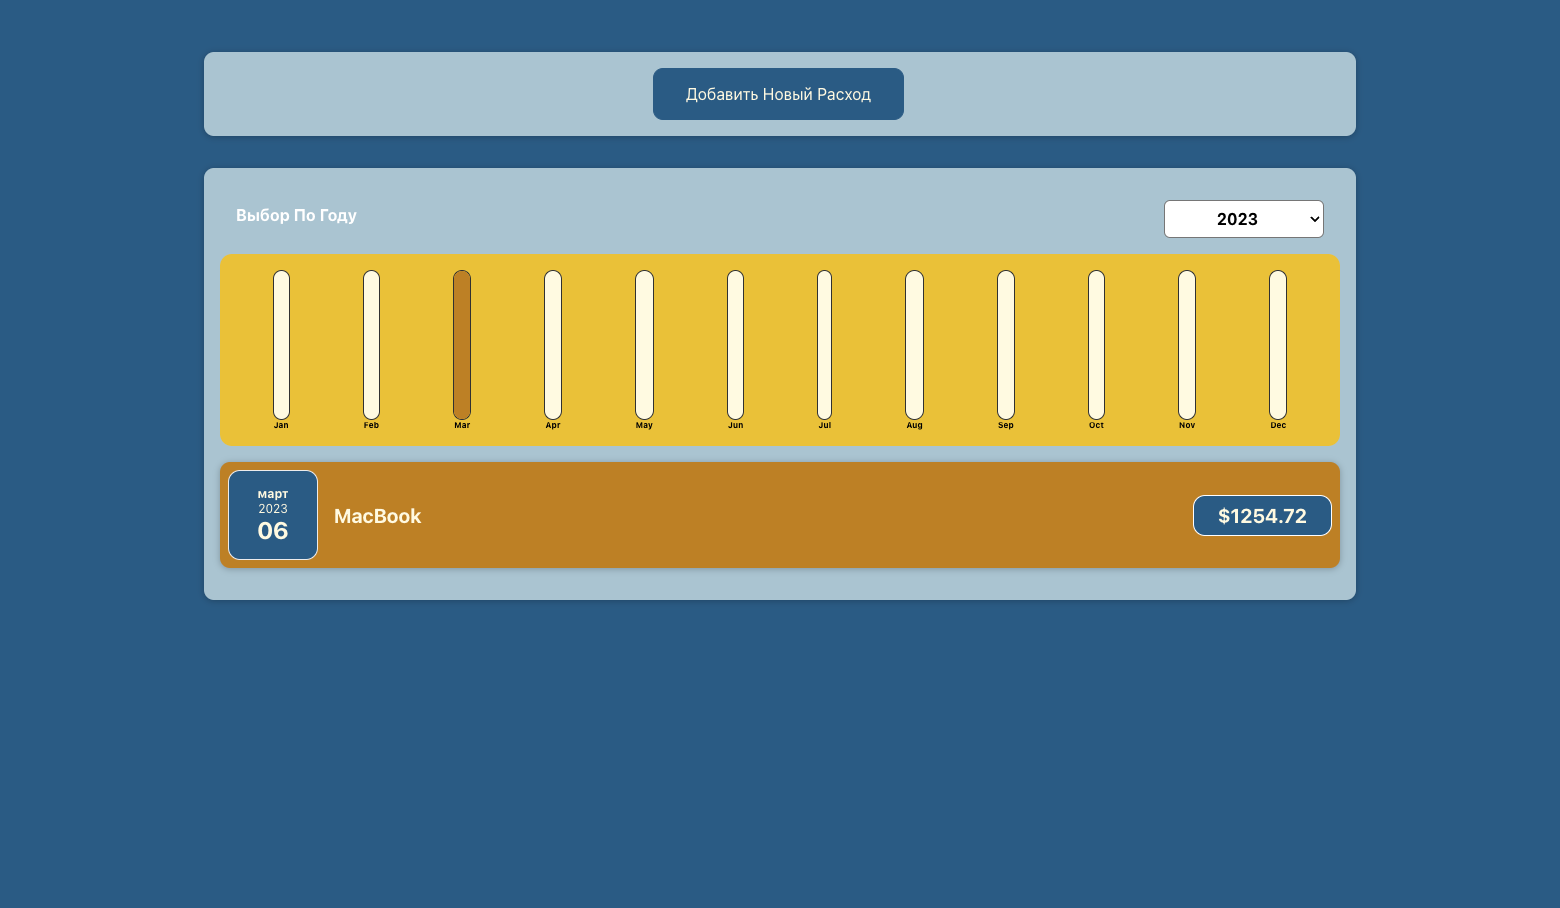
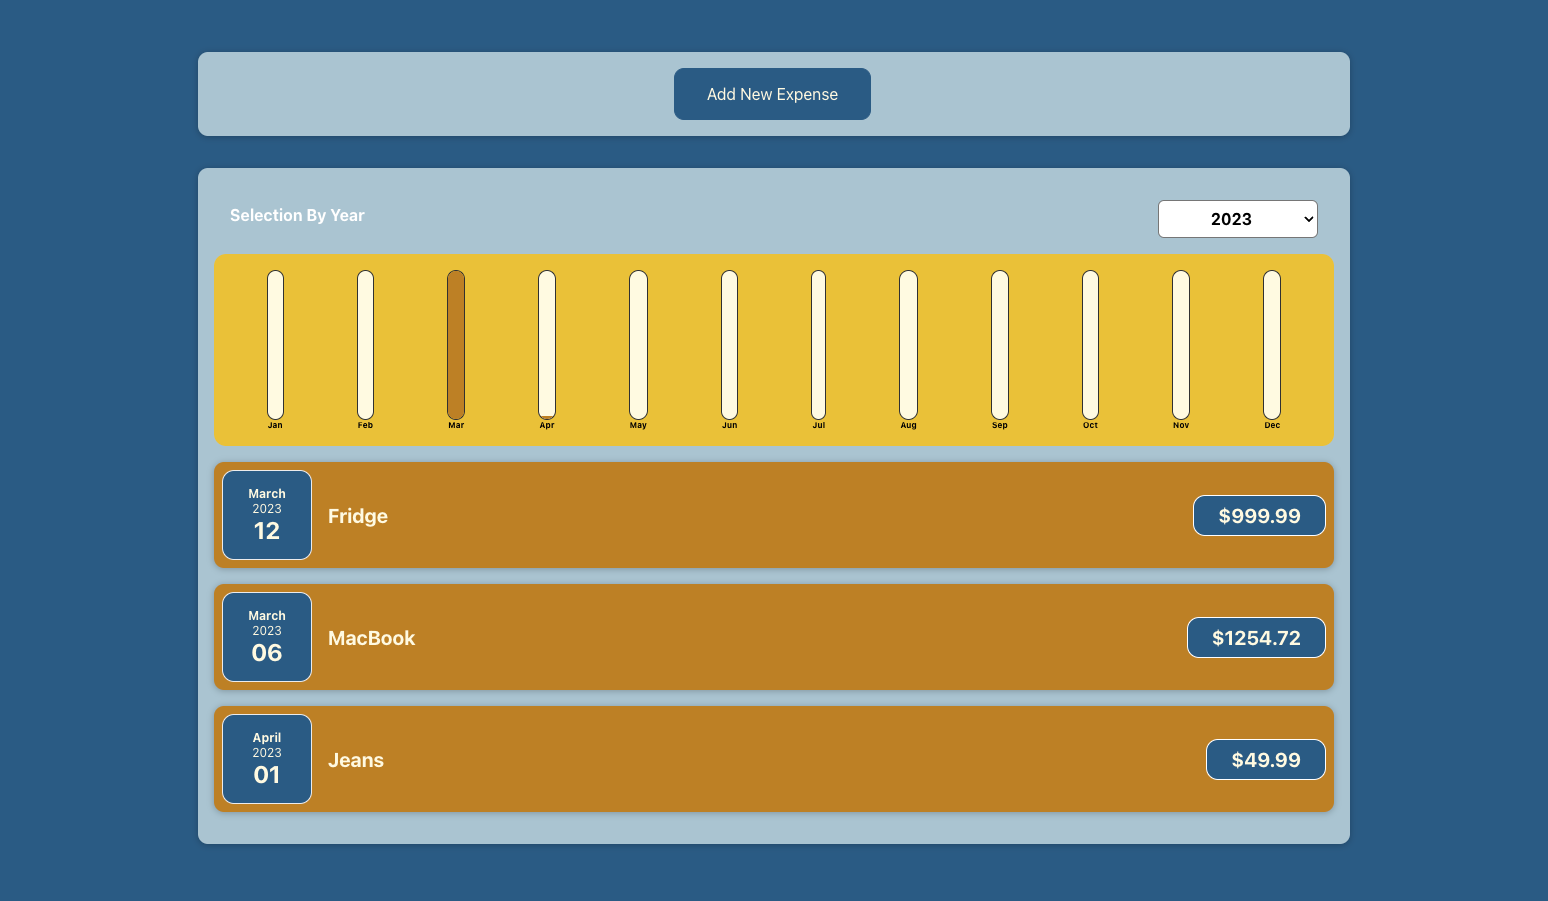
Feat(Files) Added local storage

diff --git a/src/components/NewCost/CostForm.js b/src/components/NewCost/CostForm.js
@@ -1,48 +1,24 @@
-import React, { useState } from "react";
-import "./CostForm.css";
+import React, { useState } from 'react';
+import './CostForm.css';
 
-const CostForm = (props) => {
-  const [inputName, setInputName] = useState("");
-  const [inputAmount, setInputAmount] = useState("");
-  const [inputDate, setInputDate] = useState("");
+const CostForm = props => {
+  const [inputName, setInputName] = useState('');
+  const [inputAmount, setInputAmount] = useState('');
+  const [inputDate, setInputDate] = useState('');
 
-  //   const [userInput, setUserInput] = useState({
-  //     name: "",
-  //     amount: "",
-  //     date: "",
-  //   });
-
-  const nameChangeHandler = (event) => {
+  const nameChangeHandler = event => {
     setInputName(event.target.value);
-    // setUserInput({
-    //   ...userInput,
-    //   name: event.target.value,
-    // });
-    // setUserInput((previousState) => {
-    //     return {
-    //         ...previousState,
-    //         name: event.target.value
-    //     }
-    // })
   };
 
-  const amountChangeHandler = (event) => {
+  const amountChangeHandler = event => {
     setInputAmount(event.target.value);
-    // setUserInput({
-    //   ...userInput,
-    //   amount: event.target.value,
-    // });
   };
 
-  const dateChangeHandler = (event) => {
+  const dateChangeHandler = event => {
     setInputDate(event.target.value);
-    // setUserInput({
-    //   ...userInput,
-    //   date: event.target.value,
-    // });
   };
 
-  const submitHandler = (event) => {
+  const submitHandler = event => {
     event.preventDefault();
 
     const costData = {
@@ -52,20 +28,20 @@ const CostForm = (props) => {
     };
 
     props.onSaveCostData(costData);
-    setInputName("");
-    setInputAmount("");
-    setInputDate("");
+    setInputName('');
+    setInputAmount('');
+    setInputDate('');
   };
 
   return (
     <form onSubmit={submitHandler}>
       <div className="new-cost__controls">
         <div className="new-cost__control">
-          <label>Название</label>
+          <label>Name</label>
           <input type="text" value={inputName} onChange={nameChangeHandler} />
         </div>
         <div className="new-cost__control">
-          <label>Сумма</label>
+          <label>Sum</label>
           <input
             value={inputAmount}
             onChange={amountChangeHandler}
@@ -75,7 +51,7 @@ const CostForm = (props) => {
           />
         </div>
         <div className="new-cost__control">
-          <label>Дата</label>
+          <label>Date</label>
           <input
             value={inputDate}
             onChange={dateChangeHandler}
@@ -85,9 +61,9 @@ const CostForm = (props) => {
           />
         </div>
         <div className="new-cost__actions">
-          <button type="submit">Добавить Расход</button>
+          <button type="submit">Add Expense</button>
           <button type="button" onClick={props.onCancel}>
-            Отмена
+            Cancel
           </button>
         </div>
       </div>

diff --git a/src/components/Costs/CostsDiagram.js b/src/components/Costs/CostsDiagram.js
@@ -1,23 +1,30 @@
-import Diagram from "../Diagram/Diagram";
+import Diagram from '../Diagram/Diagram';
 
-const CostsDiagram = (props) => {
+const CostsDiagram = props => {
   const diagramDataSets = [
-    { label: "Jan", value: 0 },
-    { label: "Feb", value: 0 },
-    { label: "Mar", value: 0 },
-    { label: "Apr", value: 0 },
-    { label: "May", value: 0 },
-    { label: "Jun", value: 0 },
-    { label: "Jul", value: 0 },
-    { label: "Aug", value: 0 },
-    { label: "Sep", value: 0 },
-    { label: "Oct", value: 0 },
-    { label: "Nov", value: 0 },
-    { label: "Dec", value: 0 },
+    { label: 'Jan', value: 0 },
+    { label: 'Feb', value: 0 },
+    { label: 'Mar', value: 0 },
+    { label: 'Apr', value: 0 },
+    { label: 'May', value: 0 },
+    { label: 'Jun', value: 0 },
+    { label: 'Jul', value: 0 },
+    { label: 'Aug', value: 0 },
+    { label: 'Sep', value: 0 },
+    { label: 'Oct', value: 0 },
+    { label: 'Nov', value: 0 },
+    { label: 'Dec', value: 0 },
   ];
 
   for (const cost of props.costs) {
-    const costMonth = cost.date.getMonth();
+    const costDate = new Date(cost.date);
+
+    const costMonth = costDate.getMonth();
+
+    diagramDataSets[costMonth].label = costDate.toLocaleString('en-US', {
+      month: 'short',
+    });
+
     diagramDataSets[costMonth].value += cost.amount;
   }
 

diff --git a/src/App.js b/src/App.js
@@ -1,41 +1,22 @@
-import React, { useState } from 'react';
 import NewCost from './components/NewCost/NewCost';
 import Costs from './components/Costs/Costs';
-
-const INITIAL_COSTS = [
-  {
-    id: 'c1',
-    date: new Date(2022, 2, 12),
-    description: 'Холодильник',
-    amount: 999.99,
-  },
-  {
-    id: 'c2',
-    date: new Date(2023, 2, 6),
-    description: 'MacBook',
-    amount: 1254.72,
-  },
-  {
-    id: 'c3',
-    date: new Date(2021, 3, 1),
-    description: 'Джинсы',
-    amount: 49.99,
-  },
-];
+import { useDispatch, useSelector } from 'react-redux';
+import { selectExpenseParams } from './redux/selector';
+import { addExpense } from './redux/expenseSlice';
 
 const App = () => {
-  const [costs, setCosts] = useState(INITIAL_COSTS);
+  const expenseParams = useSelector(selectExpenseParams);
+
+  const dispatch = useDispatch();
 
   const addCostHandler = cost => {
-    setCosts(prevCosts => {
-      return [cost, ...prevCosts];
-    });
+    dispatch(addExpense(cost));
   };
 
   return (
     <div>
       <NewCost onAddCost={addCostHandler} />
-      <Costs costs={costs} />
+      <Costs costs={expenseParams} />
     </div>
   );
 };

diff --git a/src/components/NewCost/NewCost.js b/src/components/NewCost/NewCost.js
@@ -1,11 +1,11 @@
-import React, { useState } from "react";
-import CostForm from "./CostForm";
-import "./NewCost.css";
+import React, { useState } from 'react';
+import CostForm from './CostForm';
+import './NewCost.css';
 
-const NewCost = (props) => {
+const NewCost = props => {
   const [isFormVisible, setIsFormVisible] = useState(false);
 
-  const saveCostDataHandler = (inputCostData) => {
+  const saveCostDataHandler = inputCostData => {
     const costData = {
       ...inputCostData,
       id: Math.random().toString(),
@@ -26,7 +26,7 @@ const NewCost = (props) => {
   return (
     <div className="new-cost">
       {!isFormVisible && (
-        <button onClick={inputCostDataHandler}>Добавить Новый Расход</button>
+        <button onClick={inputCostDataHandler}>Add New Expense</button>
       )}
       {isFormVisible && (
         <CostForm

diff --git a/src/redux/expenseSlice.js b/src/redux/expenseSlice.js
@@ -1,0 +1,38 @@
+import { createSlice } from '@reduxjs/toolkit';
+
+const initialState = {
+  expense: [
+    {
+      id: 'c1',
+      date: new Date(2023, 2, 12),
+      description: 'Fridge',
+      amount: 999.99,
+    },
+    {
+      id: 'c2',
+      date: new Date(2023, 2, 6),
+      description: 'MacBook',
+      amount: 1254.72,
+    },
+    {
+      id: 'c3',
+      date: new Date(2023, 3, 1),
+      description: 'Jeans',
+      amount: 49.99,
+    },
+  ],
+};
+
+export const expenseSlice = createSlice({
+  name: 'expense',
+  initialState,
+  reducers: {
+    addExpense: (state, action) => {
+      state.expense.push(action.payload);
+    },
+  },
+});
+
+export const { addExpense } = expenseSlice.actions;
+
+export default expenseSlice.reducer;

diff --git a/src/components/Costs/CostsFilter.js b/src/components/Costs/CostsFilter.js
@@ -8,12 +8,13 @@ const CostsFilter = props => {
   return (
     <div className="costs-filter">
       <div className="costs-filter__control">
-        <label>Выбор По Году</label>
+        <label>Selection By Year</label>
         <select value={props.year} onChange={yearChangeHandler}>
-          <option value="2022">2023</option>
-          <option value="2022">2022</option>
-          <option value="2021">2021</option>
-          <option value="2020">2020</option>
+          <option value="2027">2027</option>
+          <option value="2026">2026</option>
+          <option value="2025">2025</option>
+          <option value="2024">2024</option>
+          <option value="2023">2023</option>
         </select>
       </div>
     </div>

diff --git a/src/redux/store.js b/src/redux/store.js
@@ -1,0 +1,24 @@
+import { configureStore, combineReducers } from '@reduxjs/toolkit';
+import storage from 'redux-persist/lib/storage';
+import { persistStore, persistReducer } from 'redux-persist';
+import expenseReducer from './expenseSlice';
+
+const persistConfig = {
+  key: 'root',
+  storage,
+};
+
+const persistedReducer = persistReducer(
+  persistConfig,
+  combineReducers({ expense: expenseReducer })
+);
+
+export const store = configureStore({
+  reducer: persistedReducer,
+  middleware: getDefaultMiddleware =>
+    getDefaultMiddleware({
+      serializableCheck: false,
+    }),
+});
+
+export const persistor = persistStore(store);

diff --git a/src/index.js b/src/index.js
@@ -1,5 +1,16 @@
-import ReactDOM from "react-dom";
-import "./index.css";
-import App from "./App";
+import ReactDOM from 'react-dom/client';
+import './index.css';
+import App from './App';
 
-ReactDOM.render(<App />, document.getElementById("root"));
+import { Provider } from 'react-redux';
+import { persistor, store } from './redux/store';
+import { PersistGate } from 'redux-persist/integration/react';
+
+const root = ReactDOM.createRoot(document.getElementById('root'));
+root.render(
+  <Provider store={store}>
+    <PersistGate loading={null} persistor={persistor}>
+      <App />
+    </PersistGate>
+  </Provider>
+);

diff --git a/src/components/Costs/CostList.js b/src/components/Costs/CostList.js
@@ -1,14 +1,14 @@
-import CostItem from "./CostItem";
-import "./CostList.css";
+import CostItem from './CostItem';
+import './CostList.css';
 
-const CostList = (props) => {
+const CostList = props => {
   if (props.costs.length === 0) {
-    return <h2 className="cost-list__fallback">В Этом Году Расходов Нет</h2>;
+    return <h2 className="cost-list__fallback">No Expenses This Year</h2>;
   }
 
   return (
     <ul className="cost-list">
-      {props.costs.map((cost) => (
+      {props.costs.map(cost => (
         <CostItem
           key={cost.id}
           date={cost.date}

diff --git a/src/components/Costs/CostDate.js b/src/components/Costs/CostDate.js
@@ -1,9 +1,10 @@
-import "./CostDate.css";
+import './CostDate.css';
 
-const CostDate = (props) => {
-  const month = props.date.toLocaleString("ru-RU", { month: "long" });
-  const year = props.date.getFullYear();
-  const day = props.date.toLocaleString("ru-RU", { day: "2-digit" });
+const CostDate = props => {
+  const date = new Date(props.date);
+  const month = date.toLocaleString('en-US', { month: 'long' });
+  const year = date.getFullYear();
+  const day = date.toLocaleString('en-US', { day: '2-digit' });
 
   return (
     <div className="cost-date">

diff --git a/src/components/Costs/Costs.js b/src/components/Costs/Costs.js
@@ -13,7 +13,8 @@ const Costs = props => {
   };
 
   const filteredCosts = props.costs.filter(cost => {
-    return cost.date.getFullYear().toString() === selectedYear;
+    const costDate = new Date(cost.date);
+    return costDate.getFullYear().toString() === selectedYear;
   });
 
   return (

diff --git a/src/redux/selector.js b/src/redux/selector.js
@@ -1,0 +1,1 @@
+export const selectExpenseParams = state => state.expense.expense;
